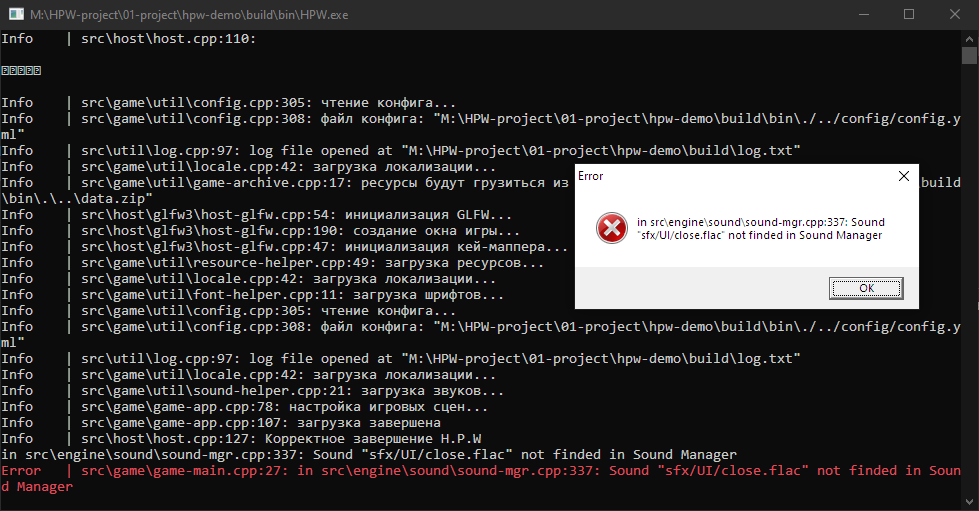
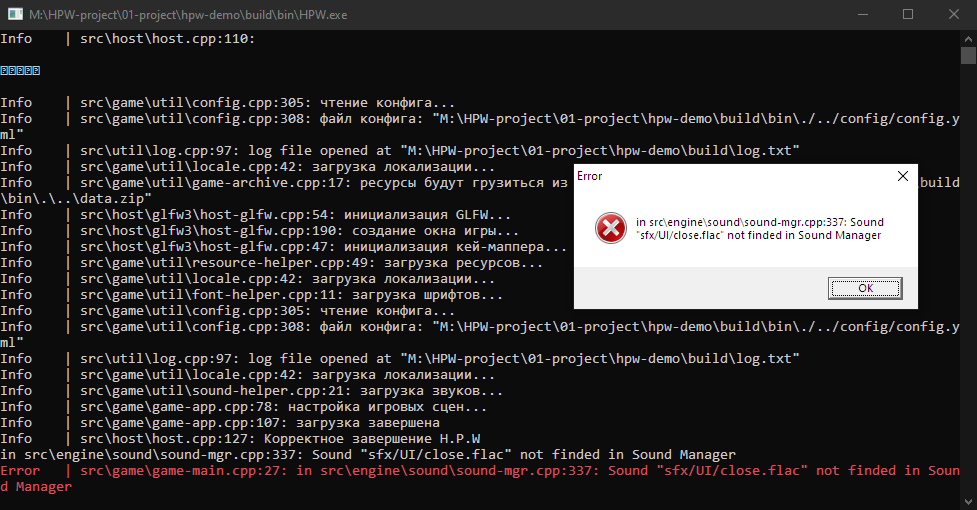
Рамка скрина

diff --git a/news/builter-complete.html b/news/builter-complete.html
@@ -46,8 +46,8 @@
     </article>
 
     <figure class="gameplay">
-      <picture style="border: 1px solid #444444">
-        <img src="media/bugz-14-08-2026.webp" alt="Скрин готового сборщика H.P.W" loading="lazy" width="979" height="511">  
+      <picture style="border: 1px solid #2B2B2B">
+        <img src="media/bugz-14-08-2026.webp" alt="Скрин готового сборщика H.P.W" loading="lazy" width="977" height="510">  
       </picture>
       <figcaption class="screenshot-desc">Ошибок гораздо больше</figcaption>
     </figure>
